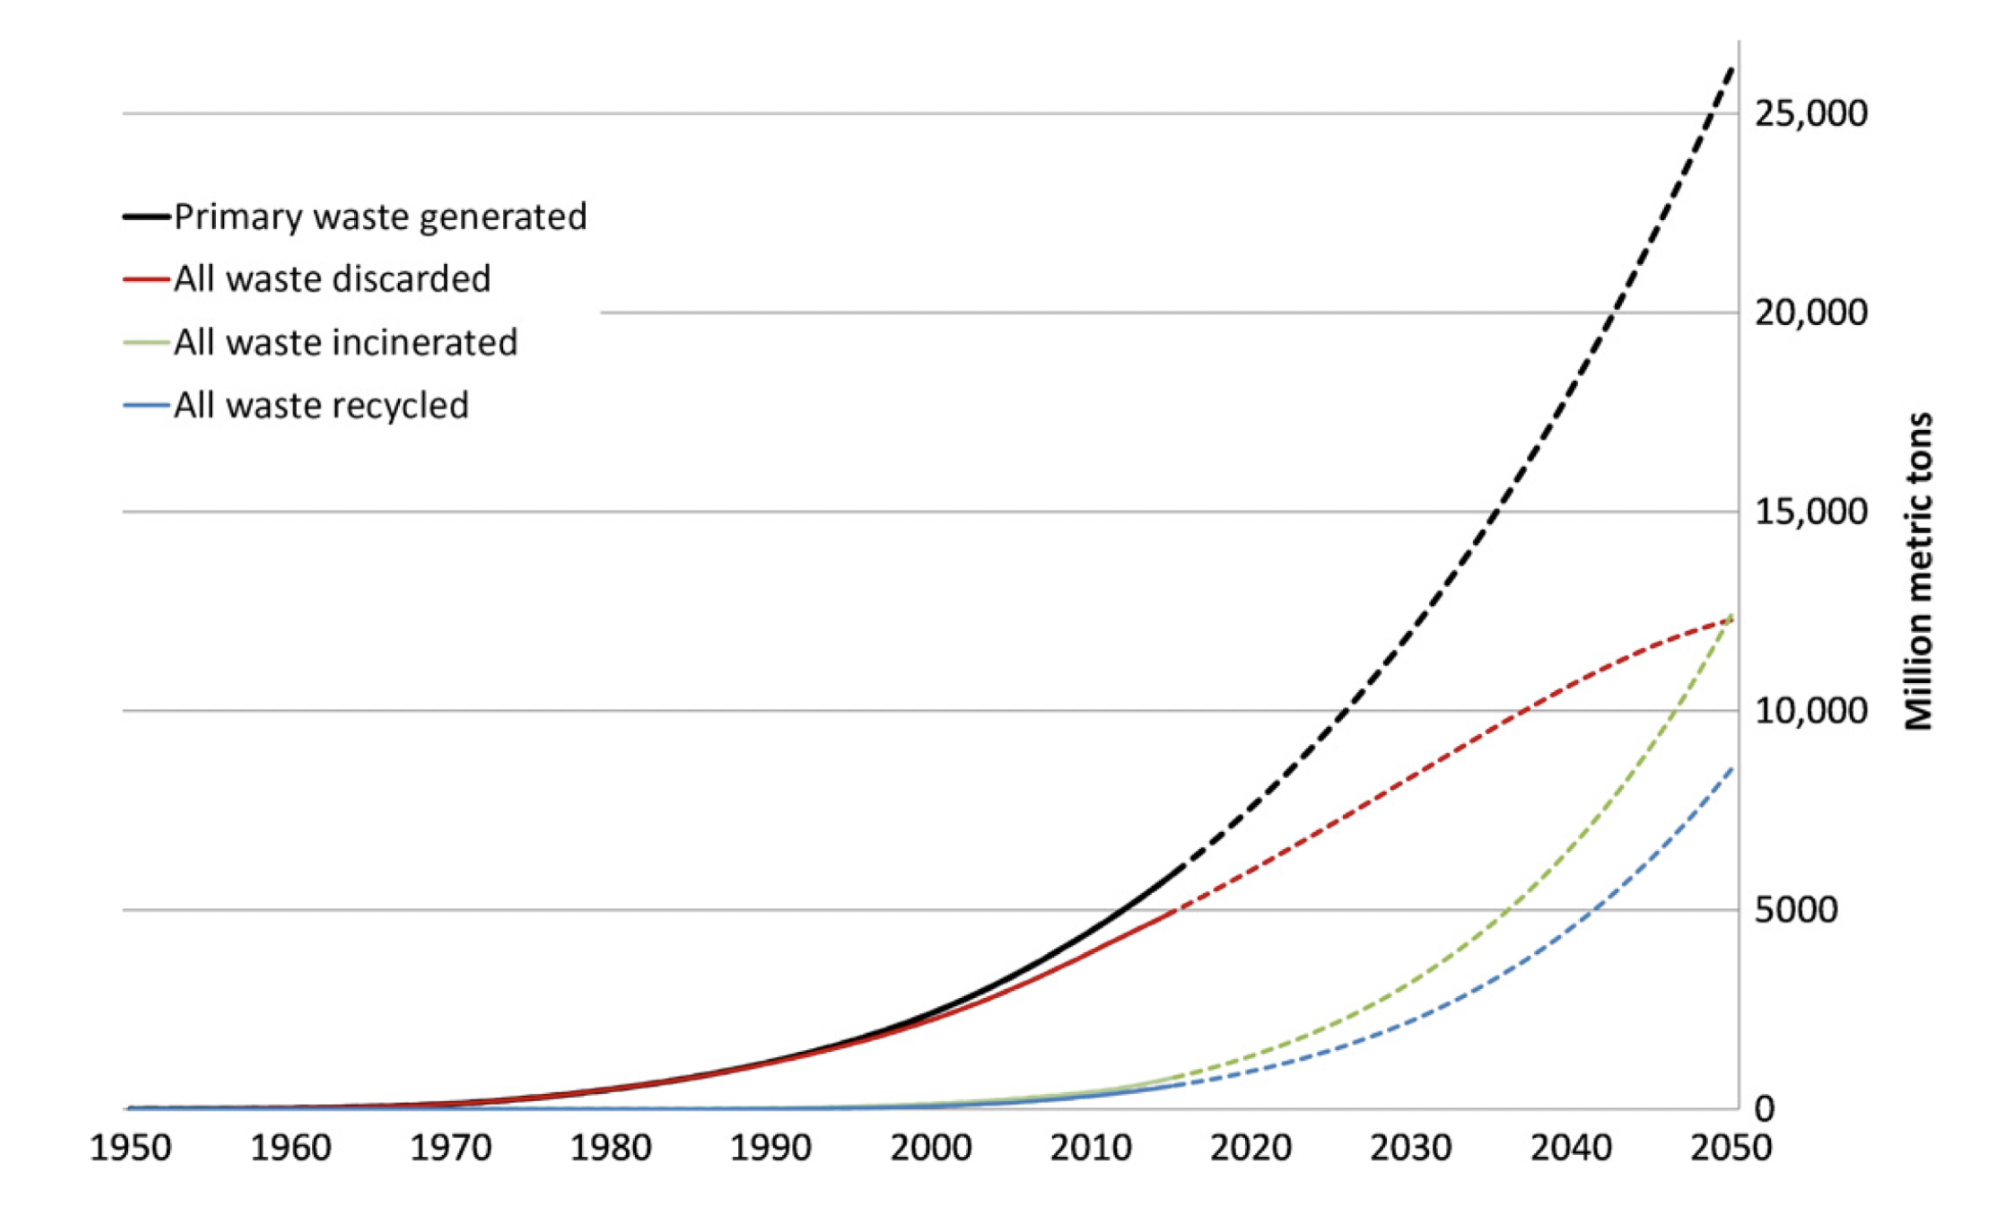
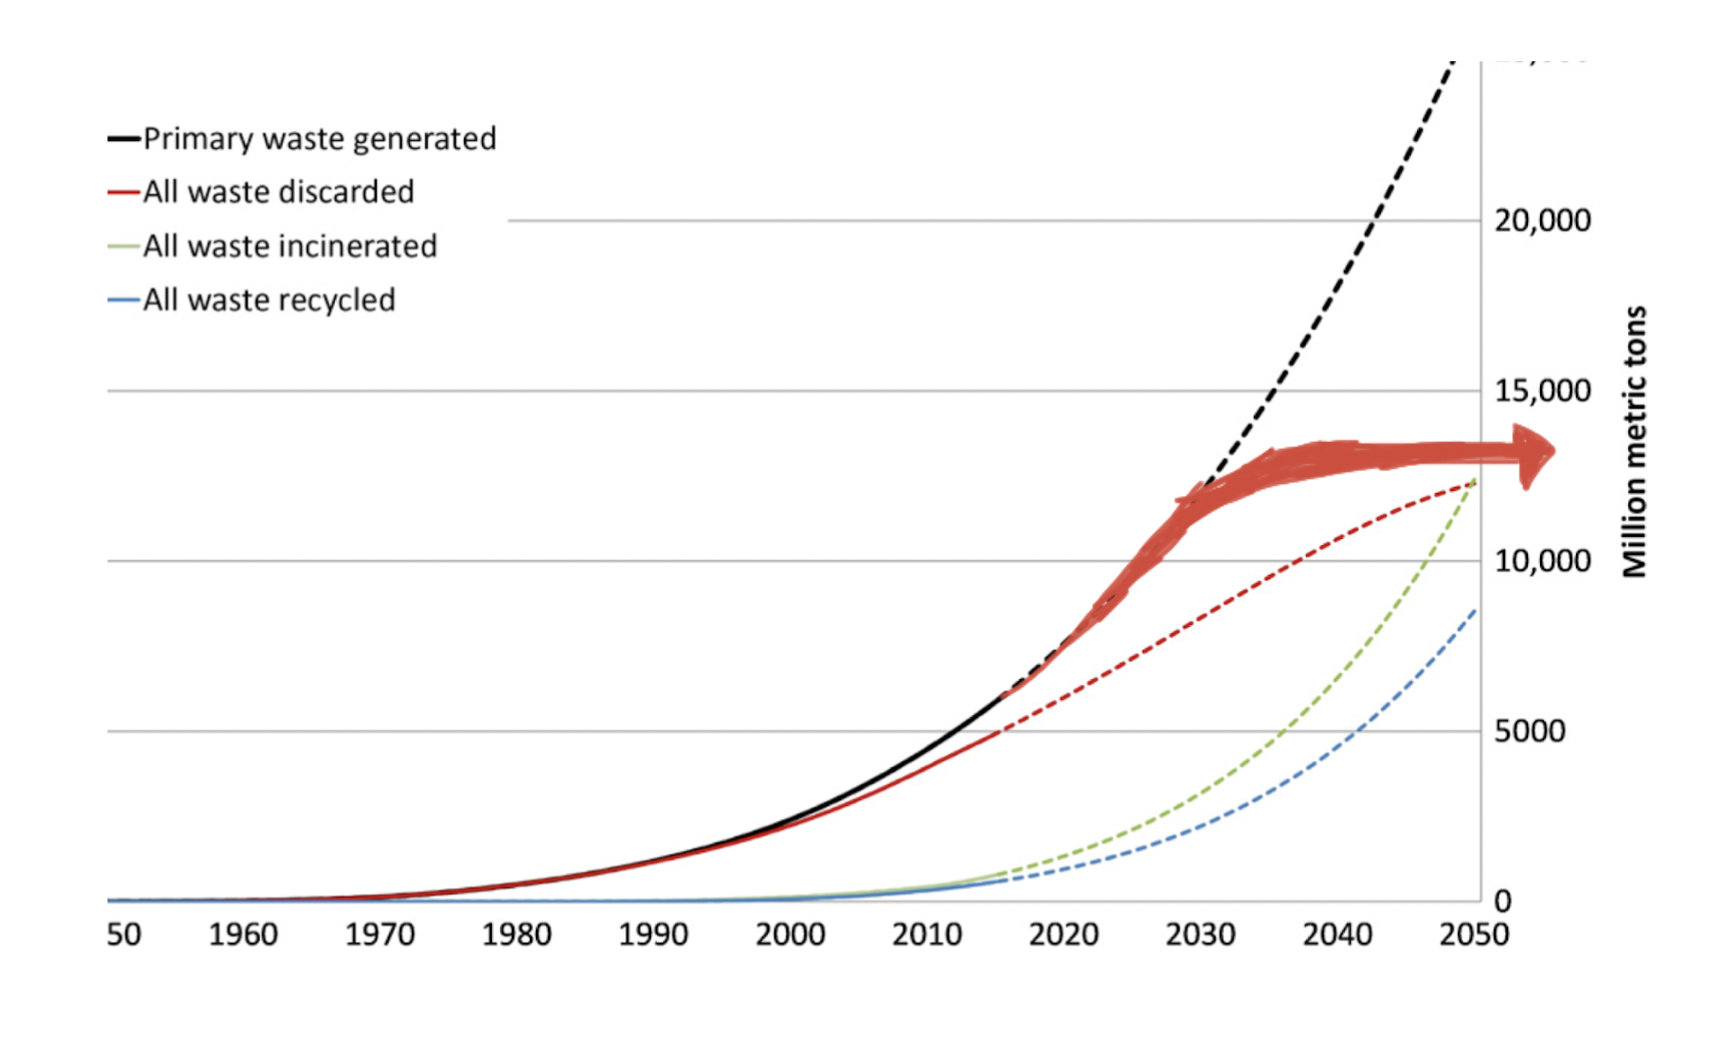
home background image fix + logistic analysis
implementing logistic analysis and changing the background image of the home section

Changed region(s): [[0.0312, 0.0614, 0.9676, 0.9827], [0.0624, 0.0921, 0.3121, 0.2457], [0.2809, 0.0921, 0.3121, 0.1228]]

diff --git a/biolink/src/components/EnvironmentStatistics.jsx b/biolink/src/components/EnvironmentStatistics.jsx
@@ -3,8 +3,30 @@ import Card from 'react-bootstrap/Card';
 
 function EnvironmentStatistics() {
     return (
-        <div>
+        <div id="problem-statistics" style={{display: "flex", width: "100%"}} className="colored-section">
+            <Card style={{ width: '70%', height: "750px", right: "-20px", backgroundColor: '#d85b53', color: "white" }} className="border-0">
+                <Card.Img variant="top" src="chart3.png" style={{ transform:'scale(1.2)', maxHeight: "50em", maxWidth: "35em", position: "relative", top: "23%", left: "100px"  }}/>
+                <Card.Body className="d-flex flex-column align-items-center">
+                    <Card.Title style={{ fontFamily: 'Dosis, sans-serif', fontSize: "4.2em", position: "relative", left: "-30px", top: "-330px" }}> Logistic Analysis </Card.Title>
+                    <Card.Text style={{ fontFamily: "Open Sans, sans-serif", fontSize: "1.2rem", textAlign: "center", position: "relative", left: "-50px", top: "120px", maxWidth: "700px" }}>
+                        Using the graph, we can apply logistic
+                        regression to estimate W(t), the primary
+                        waste generated t years after 1960. 
+                        Using W(t), we can apply the concept
+                        of differential equations to find &nbsp;
+                        <sup>dW</sup>&frasl;<sub>dt</sub>, the rate at which plastic 
+                        pollution can be mitigated to our goal.
+                        Through this analysis, we see that if
+                        proper measures are taken, the rate at
+                        which primary medical waste and plastics
+                        are generated can decrease overtime.
+                    </Card.Text>
+                </Card.Body>
             
+            </Card>
+            <Card style={{ width: '50%', maxHeight: "750px", right: "7px", backgroundColor: '#d85b53', color: "white" }} className="border-0">
+                <Card.Img variant="top" src="calculus.png" style={{ maxHeight: "45em", maxWidth: "35em", position: "relative", top: "12px", right: "20px"  }}/>
+            </Card>
         </div>
     );
 }

diff --git a/biolink/src/components/Home.jsx b/biolink/src/components/Home.jsx
@@ -9,9 +9,9 @@ function Home() {
                 <Carousel.Item>
                     <img
                         className="d-block w-100"
-                        src="virus.jpg"
+                        src="sea.png"
                         alt="First slide"
-                        style={{ maxHeight: "700px", minWidth: "auto", objectFit: "none" }}
+                        style={{ maxHeight: "700px", minWidth: "auto", objectFit: "none", filter: "saturate(1.5)" }}
                     />
                     <Carousel.Caption style={{ color: "white", fontFamily: "Gloria Hallelujah, cursive" }}>
                         <h3 style={{fontSize:"4em"}}>Our Mission</h3>

diff --git a/biolink/src/App.css b/biolink/src/App.css
@@ -105,7 +105,7 @@ a:hover {
 }
 
 #problem-statistics {
-    height: 650px;
+    height: 800px;
 }
 
 /* PROBLEM STATEMENT END */
